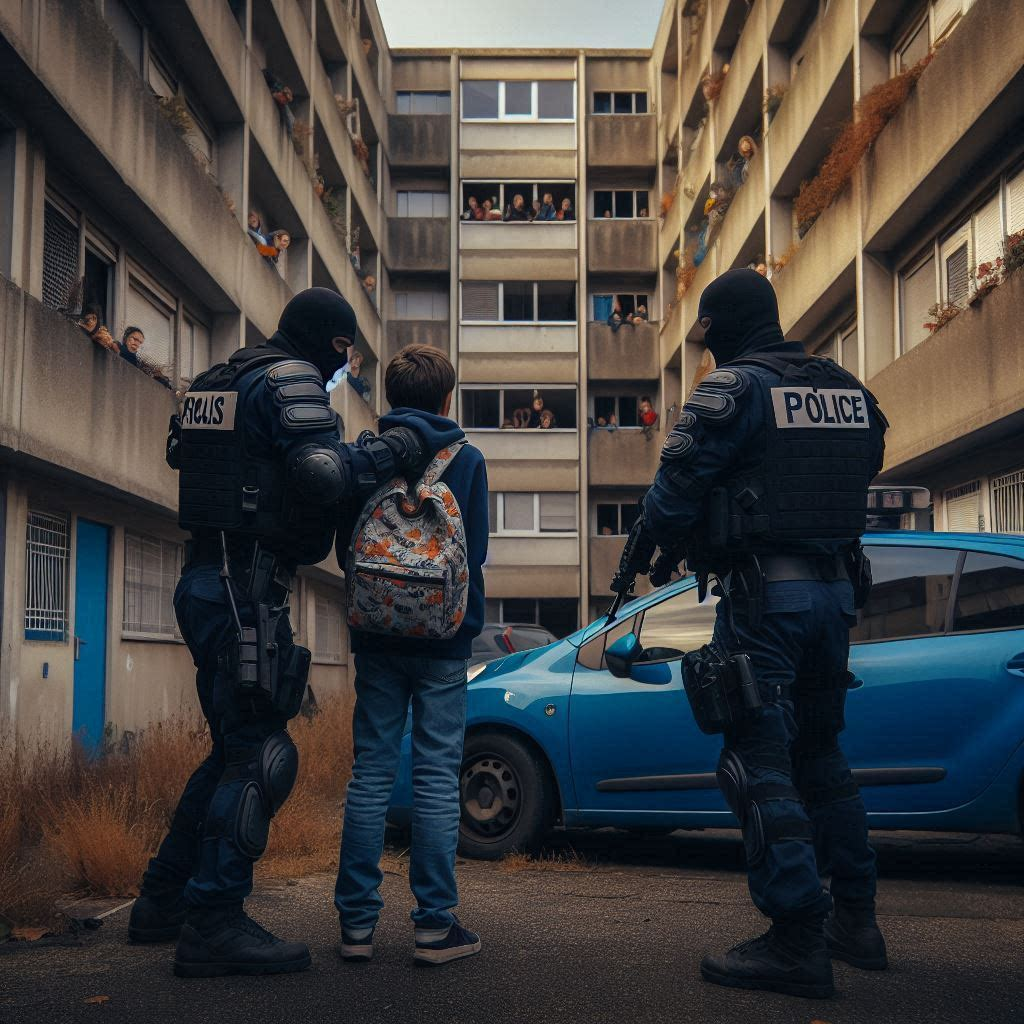
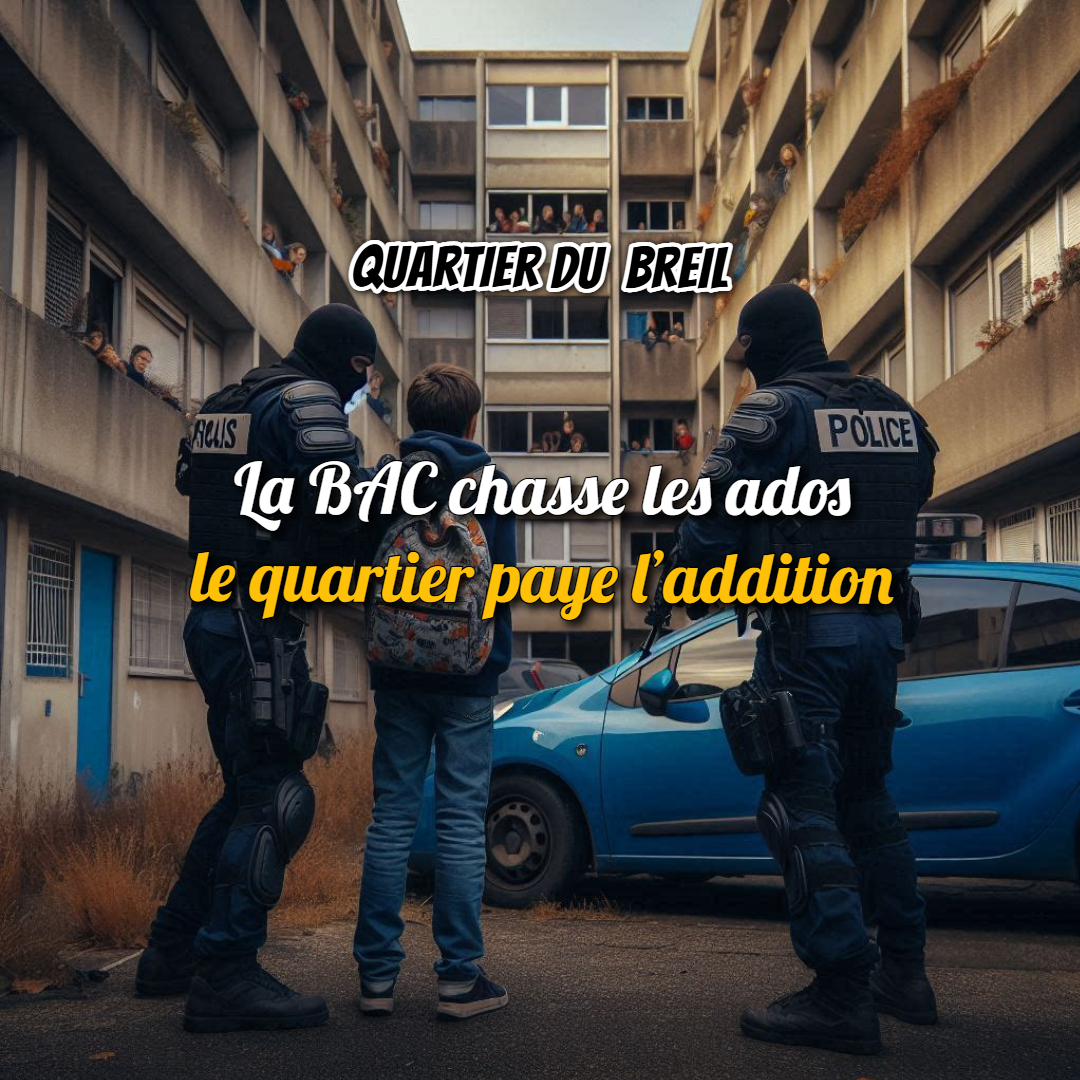
Liens écrivez-nous : ouvrent la modal au lieu de naviguer + image Breil
- JS : intercepte les clics sur les liens vers /bureau-des-plaintes/
  dans le contenu des articles. Au lieu de charger la page, on ouvre
  directement la modal (même formulaire, zéro navigation, retour au
  scroll conservé). Le comportement normal est conservé si l'on est
  déjà sur la page Bureau des plaintes.
- Nouvelle image Breil remplaçant la version précédente.

diff --git a/quartier-libre-theme/assets/js/main.js b/quartier-libre-theme/assets/js/main.js
@@ -113,6 +113,21 @@
     document.addEventListener('keydown', function(e) {
       if (e.key === 'Escape' && !plainteModal.hasAttribute('hidden')) { closeModal(); }
     });
+
+    // Intercepter les liens "/bureau-des-plaintes/" dans les articles :
+    // au lieu de naviguer, on ouvre la modal directement.
+    document.addEventListener('click', function(e) {
+      var a = e.target.closest && e.target.closest('a');
+      if (!a) return;
+      var href = a.getAttribute('href') || '';
+      // Match /bureau-des-plaintes/ ou l'URL complète
+      if (/\/bureau-des-plaintes\/?(\?|#|$)/.test(href)) {
+        // Laisser passer si on est déjà sur la page Bureau des plaintes
+        if (/\/bureau-des-plaintes\//.test(window.location.pathname)) return;
+        e.preventDefault();
+        openModal();
+      }
+    });
   }
 
   // ── Auto-popup plainte en fin d'article (single.php) ────────
